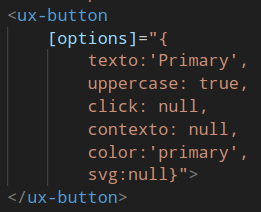
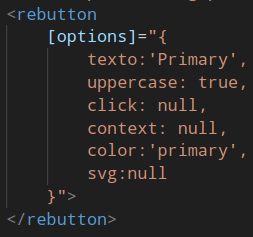
avance navideño

diff --git a/src/app/components/blog/reboton/reboton.component.html b/src/app/components/blog/reboton/reboton.component.html
@@ -1,102 +1,149 @@
-<section #presentacion class="md:h-screen xs:h-auto py-12">
-    <h1 class="pb-2 md:text-[2.2em] xs:text-[1.9em]">{{titulo}} </h1>
-    <div class="text-gray-500 text-[13px]">
-        <h3 class="xs:text-[1.3em] ">Autor: Fabián Catalán</h3>
-        <h4 class="text-[14px] xs:text-[1em]">23 de Diciembre de 2023</h4>
-    </div>
-
-    <section #introduccion class="pt-8">
-        <div class="rounded-xl border-2 border-primary-200 m-2 my-6 p-4">
-            <p><mark>Objetivo</mark>: Entender y crear un componente estilizado con Tailwind y el sistema de
-                diseño
-                Tailwind Elements en Angular.</p>
+<div class="overflow-x-hidden">
+    <section #presentacion class="md:h-screen xs:h-auto py-6">
+        <h1 class="pb-2 md:text-[2.2em] xs:text-[1.9em]">{{titulo}} </h1>
+        <div class="text-gray-500 text-[13px]">
+            <h3 class="xs:text-[1.3em] ">Autor: Fabián Catalán Vejar</h3>
+            <h4 class="text-[14px] xs:text-[1em]">23 de Diciembre de 2023</h4>
         </div>
-        <p class="pt-4"> Al definir los estilos de los elementos de una página,
-            es frecuente ver extensas líneas horizontales con clases de Tailwind, que a menudo, se expanden
-            según
-            las necesidades de diseño
-            que se desee obtener en un elemento de página. Cuando este elemento estilizado se usa en varias
-            partes
-            del proyecto, genera
-            demasiados bytes de código repetido. Veremos cómo optimizar y limpiar el código fuente de las
-            repetitivas configuraciones visuales
-            con el uso de componentes contextuales.
-        </p>
-    </section>
-</section>
 
-<section #knowrebuttons class="md:h-screen xs:h-auto py-6">
-    <div class=" flex flex-col gap-2">
+        <section #introduccion class="pt-8">
+            <div class="rounded-xl border-2 border-primary-200 m-2 my-6 p-4">
+                <p><b>Objetivo</b>: Entender y crear un componente estilizado con Tailwind y el sistema de
+                    diseño
+                    Tailwind Elements en Angular.</p>
+            </div>
+            <p class="pt-4"> Al definir los estilos de los elementos de una página,
+                es frecuente ver extensas líneas horizontales con clases de Tailwind, que a menudo, se expanden
+                según las necesidades de diseño
+                que se desee obtener sobre un elemento de página. Al trabajar sin Tailwind CSS, el estilizado se realiza
+                configurando una hoja de estilos CSS cuyas configuraciones se conectan con la página web, o bien,
+                se emplea la configuración explícita de estilos sobre el mismo elemento HTML, esto implica
+                la dependencia de la hoja de estilos al componente o emplear estilos
+                inyectados en alguna sección del código.
+                Sumado a lo anterior, cuando se necesita reutilizar elementos estilizados en el proyecto,
+                 aumenta necesariamente las líneas de código repetido
+                si no se maneja adecuadamente. Veremos en esta entrada, cómo optimizar y limpiar el código fuente
+                de las repetitivas configuraciones visuales con el uso de componentes contextuales.
+            </p>
+        </section>
+    </section>
+
+    <section #tailwind class="h-auto pb-6">
+        <h2 class="pt-4 pb-6">Entendiendo algunas estrategias de diseño</h2>
+        <h3 class="py-4">En la práctica,</h3>
+        <p>Tailwind cumple su labor de ayudar al diseño y convertir los elementos HTML en candidatos a componentes
+            según donde sea usado, preferentemente en frameworks de páginas web basados en javascript como Angular, React, Vue, etc.
+        </p>
+        <img class="py-6" src="../../../../assets/blogs/reboton/tw-compare.svg" alt="compare Tailwind">
+        <p class="py-6">Imagínate ahora, un componente que no solo luzca bien, sino que también, interaccione con el mouse
+            y que además, sea afectado por eventos de otros componentes considerando si el usuario cometió un error en algún área
+            o se afecta por los datos que recibe de alguna petición HTTP, entre otros eventos, consecuentemente, crece la cantidad de 
+            clases que afectan al diseño dinámico de este elemento. A todo lo anterior, agrégale que este elemento lo usarás en 
+            varias secciones y páginas del proyecto... tendrás que copiar todo el código afectando en la escalabilidad y calidad de desarrollo. 
+            Una estrategia para abordar esta situación es usar componentes, 
+            así como se ve en la siguiente imágen comparativa.
+        </p>
+
+        <img class="py-6" src="../../../../assets/blogs/reboton/tw2.svg" alt="tw compare">
+
+        <h3 class="py-6">Y si uso una clase global en vez de Tailwind CSS?</h3>
+        <p class="py-6"> Es posible, sin embargo, para llegar a ese nivel de abstracción se debe tener profundamente
+            dominado el diseño y sus interacciones. En etapas de diseño, los elementos están en constante modificación
+            según la necesidad de diseño e interacción que se desee, es por eso que, usar clases globales, podría ser viable en etapas más maduras
+            del proyecto. Mientras se diseña, la visual debe ser altamente moldeable, escalable y prototipable, por lo que emplear 
+            <b>componentes</b> , es una vía al desarrollo contínuo e iterativo de elementos que tienden a usarse en varias secciones del proyecto de software.
+            A continuación, te hago spoiler de cómo sería un <mark>componente reutilizable</mark>.
+        </p>
+        <img class="py-6" src="../../../../assets/blogs/reboton/tw3.svg" alt="tw component propuesta">
+        <blockquote class="bg-yellow-100 py-4 my-6 px-2 text-2xl italic text-center text-slate-900">
+            <p class="mb-0 font-roboto">Mientras se diseña, la visual debe ser altamente moldeable, escalable y prototipable, por lo que emplear componentes es una vía al desarrollo contínuo e iterativo de elementos</p>
+        </blockquote>
+    </section>
+
+    <section #knowrebuttons class="md:h-screen xs:h-auto py-6">
         <h2 class="pb-6">Dile hola a los
             <span
                 class="px-1 mx-2 animate animate-wiggle before:block before:absolute before:-inset-1 before:-skew-y-3 before:bg-primary-700 relative inline-block">
                 <span class="relative text-white">ReButtons!</span>
             </span>
         </h2>
-        <div class="pt-6 flex gap-2">
-            <ux-button
-                [options]="{texto:'Primary', uppercase: true, click: null, contexto: null, color:'primary',svg:null}"></ux-button>
-            <ux-button
-                [options]="{texto:'secondary', uppercase: true, click: null, contexto: null, color:'secondary',svg:null}"></ux-button>
-            <!-- <ux-button
-                [options]="{texto:'tertiary', uppercase: true, click: null, contexto: null, color:'tertiary',svg:null}"></ux-button> -->
+        <div class=" flex flex-col gap-2">
+            <div class="pt-6 flex gap-2 justify-center">
+                <ux-button
+                    [options]="{texto:'Soy un rebutton', uppercase: true, click: null, contexto: null, color:'primary',svg:null}"></ux-button>
+                <ux-button
+                    [options]="{texto:'Re utilizable', uppercase: false, click: null, contexto: null, color:'secondary',svg:null}"></ux-button>
+                <!-- <ux-button
+                    [options]="{texto:'tertiary', uppercase: true, click: null, contexto: null, color:'tertiary',svg:null}"></ux-button> -->
+            </div>
+            <div class="flex flex-row gap-2 justify-center">
+                <ux-button
+                    [options]="{texto:'Re escalable', uppercase: false, click: null, contexto: null, color:'primary outlined',svg:null}"></ux-button>
+                <ux-button
+                    [options]="{texto:'Moderno y dinámico', uppercase: true, click: null, contexto: null, color:'secondary outlined',svg:'play.svg'}"></ux-button>
+                <!-- <ux-button
+                    [options]="{texto:'tertiary', uppercase: true, click: null, contexto: null, color:'terciary outlined',svg:null}"></ux-button> -->
+            </div>
         </div>
-        <div class="flex flex-row gap-2">
-            <ux-button
-                [options]="{texto:'primary', uppercase: true, click: null, contexto: null, color:'primary outlined',svg:null}"></ux-button>
-            <ux-button
-                [options]="{texto:'secondary', uppercase: true, click: null, contexto: null, color:'secondary outlined',svg:null}"></ux-button>
-            <!-- <ux-button
-                [options]="{texto:'tertiary', uppercase: true, click: null, contexto: null, color:'terciary outlined',svg:null}"></ux-button> -->
-        </div>
-    </div>
 
-    <section #ejemplo class="py-8">
-        <img class="py-4" src="../../../../assets/blogs/reboton/reboton1.png" alt="reboton1">
-        <p class="text-gray-600 text-[14px]">Este fragmento de código estiliza los botones que están arriba.
-            Imagínate que sin esta estrategia que te presentaré hubiese repetido <mark>seis veces</mark> el código.</p>
+        <section #ejemplo class="py-8">
+            <img class="py-4" src="../../../../assets/blogs/reboton/reboton1.png" alt="reboton1">
+            <p class="text-gray-600 text-[16px]">Este fragmento de código estiliza los botones que están arriba.
+                Imagínate que sin esta estrategia que te presentaré hubiese repetido <mark>cuatro veces</mark> el código.
+            </p>
 
-        <p class="py-6"> Te adelanto!, la forma de llamar al componente del primer botón azulado es como sigue:</p>
-        <div class="flex justify-center">
-            <img src="../../../../assets/blogs/reboton/codebtnprimary.png" alt="adelanto">
-        </div>
+            <p class="py-6"> Te adelanto!, la forma de llamar al componente del primer botón azulado es como sigue:</p>
+            <div class="flex justify-center">
+                <img src="../../../../assets/blogs/reboton/codebtnprimary.png" alt="adelanto">
+            </div>
+        </section>
     </section>
-</section>
 
-<section #interlude class="md:h-screen xs:h-auto py-6">
-    <h2 class="pb-8">Qué, porqué, para qué y cómo hacer un
-        <span
-            class="px-1 mx-2 before:block before:absolute before:-inset-1 before:-skew-y-3 before:bg-primary-700 relative inline-block">
-            <span class="relative text-white">ReButtons!</span>
-        </span>
-    </h2>
+    <section #interlude class="md:h-screen xs:h-auto py-6">
+        <h2 class="pb-8">Presentación del componente
+            <span
+                class="px-1 mx-2 before:block before:absolute before:-inset-1 before:-skew-y-3 before:bg-primary-700 relative inline-block">
+                <span class="relative text-white">ReButtons!</span>
+            </span>
+        </h2>
+        <ux-button class="animate animate-pulse"
+            [options]="{texto:'Hola, un gusto ✌ ', uppercase: true, click: null, contexto: null, color:'primary outlined',svg:null}"></ux-button>
+        <h3 class="py-6">Qué es?</h3>
+        <p>Un componente contextual estilizado de un botón en Angular. Lo llamo contextual porque recibe el contexto
+            del padre como parámetro para que al traspasar las funciones (que podrían manejar variables de la clase
+            padre)
+            no se pierda el contexto <b>this</b> original y evitar así usar los <b>ng-templates.</b> Lo veremos con
+            detalle más adelante. </p>
 
-    <h3 class="py-6">Qué es?</h3>
-    <p>Un componente contextual estilizado de un botón en Angular. Lo llamo contextual porque recibe el contexto
-        del padre como parámetro para que al traspasar las funciones (que podrían manejar variables de la clase
-        padre)
-        no se pierda el contexto <b>this</b> original y evitar así usar los <b>ng-templates.</b> Lo veremos con
-        detalle más adelante. </p>
+        <h3 class="py-6">Porqué hacer este componente?</h3>
+        <p> Sabiendo que hay varias herramientas de diseño gratuitas y de pago que traen plantillas listas para
+            usar, la idea es
+            aprender a usar componentes reutilizables en Angular, entender la estrategia contextual, aprender a usar
+            el <b>ng-class</b> y simplificar la complejidad de usar templates (al menos, para botones simples)
+        </p>
+        <h3 class="py-6">Porqué emplear Tailwind Elements?</h3>
+        <p> Usar un sistema base de diseño mejora los tiempos de desarrollo, como también se puede utilizar maquetas prehechas,
+            gratuitas y altamente escalables. Tailwind Elements tiene mas de 500 componentes para utilizar, lo que resulta 
+            perfecto para crear componentes personalizados.
+        </p>
+        <h3 class="py-6">Para qué hacer este componente?</h3>
+        <p>Para mejorar tus habilidades de frontend, para crear nuevas plantillas o sistemas de diseño en Angular,
+            mejorar la lectura (readability), reutilización de código y
+            para crear tus propios diseños controlados por tu propio componente, qué mejor!</p>
+    </section>
 
-    <h3 class="py-6">Porqué hacer este componente?</h3>
-    <p> Sabiendo que hay varias herramientas de diseño gratuitas y de pago que traen plantillas listas para
-        usar, la idea es
-        aprender a usar componentes reutilizables en Angular, entender la estrategia contextual, aprender a usar
-        el <b>ng-class</b> y simplificar la complejidad de usar templates (al menos, para botones simples)
-    </p>
-    <h3 class="py-6">Para qué hacer este componente?</h3>
-    <p>Para mejorar tus habilidades de frontend, para crear nuevas plantillas o sistemas de diseño en Angular,
-        mejorar la lectura (readability), reutilización de código y
-        para crear tus propios diseños controlados por tu propio componente, qué mejor!</p>
-</section>
-
-<section #howto class="md:h-screen xs:h-auto py-6">
-    <h2>Cómo hacer el componente contextual desde cero?</h2>
-    <h3>Roadmap</h3>
-    <ul class="list-decimal list-outside p-4">
-        <li>Crear el proyecto Angular</li>
-        <li>Instala Tailwind & Tailwind Elements</li>
-        <li></li>
-    </ul>
-    <p></p>
-</section>
+    <section #howto class="md:h-screen xs:h-auto py-12">
+        <h2 class="py-6">Cómo hacer el componente contextual desde cero?</h2>
+        <h3 class="py-6">Roadmap</h3>
+        <ul class="list-decimal list-outside py-4 px-12 text-[1.3em]">
+            <li>Crea tu proyecto Angular</li>
+            <li>Instala y configura Tailwind & Tailwind Elements</li>
+            <li>Crea e integra un módulo de Angular</li>
+            <li>Crea un componente (ReButtons) en el módulo</li>
+            <li>Invoca el componente (ReButtons) en tu HTML</li>
+            <li>Agrégale una función y un contexto (opcional)</li>
+            <li>Agrégale íconos, imágenes al componente (opcional)</li>
+        </ul>
+        <p></p>
+    </section>
+</div>

diff --git a/src/app/components/main/main.component.html b/src/app/components/main/main.component.html
@@ -1,4 +1,4 @@
-<nav class="h-14 w-screen flex justify-center rounded-b-full bg-primary-100">
+<nav class="h-14 w-full flex justify-center rounded-b-full bg-primary-100 ">
     <div #logo class="py-4 flex flex-col">
         <span
         class="before:rounded-md before:block before:absolute before:-inset-1 before:-skew-y-3 before:bg-primary-700 relative inline-block">
@@ -9,8 +9,8 @@
 </nav>
 
 
-<div class="py-8 w-screen flex justify-center">
-    <div class="xl:w-[44%] lg:w-[70%] md:w-[80%] xs:w-screen xs:px-8 py-8 scroll-smooth">
+<div class="py-8 w-full flex justify-center main ">
+    <div class="xl:w-[44%] lg:w-[70%] md:w-[80%] xs:w-full xs:px-8 py-8 scroll-smooth">
         <app-reboton ></app-reboton>
     </div>
 </div>

diff --git a/src/app/ux/button/button.component.html b/src/app/ux/button/button.component.html
@@ -13,7 +13,7 @@
     'bg-[#385a7c] border-[#385a7c] text-white hover:bg-primary-600 focus:bg-primary-600': isPrimary(),
     'border-[#385a7c] bg-[#f1f3f5]  text-primary-600 hover:bg-primary-200': isPrimaryOutlined(),
   }"
-  class="inline-block flex flex-row gap-2 rounded-[8px] px-6 pb-2 pt-2.5 text-[14px] font-medium leading-normal
+  class="inline-block flex flex-row gap-2 rounded-[8px] px-6 pb-2 pt-2.5 text-[18px] font-medium leading-normal
    text-white transition duration-150 ease-in-out font-roboto border-[2px] 
   hover:shadow-[0_8px_9px_-4px_rgba(59,113,202,0.3),0_4px_18px_0_rgba(59,113,202,0.2)] 
   focus:shadow-[0_8px_9px_-4px_rgba(59,113,202,0.3),0_4px_18px_0_rgba(59,113,202,0.2)] 
